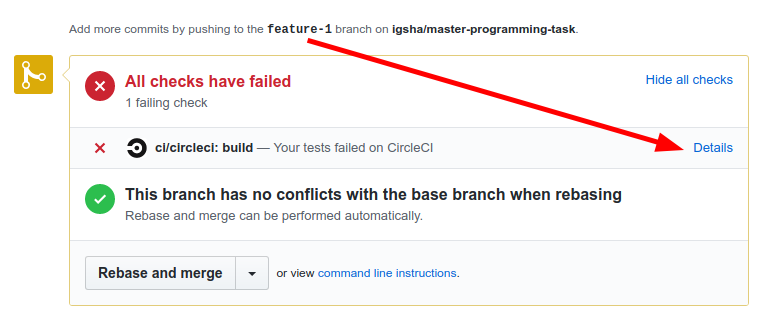
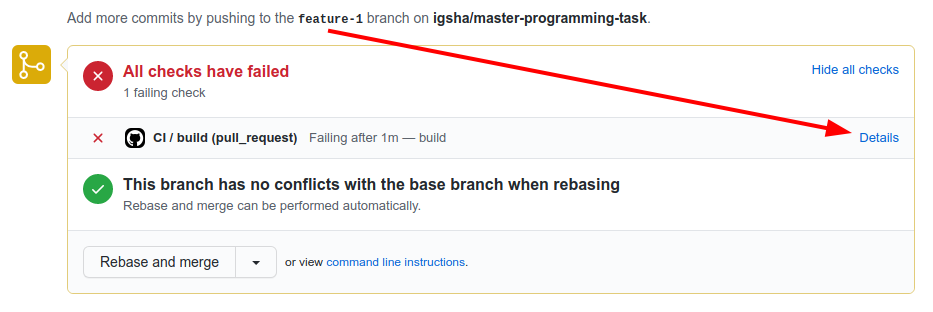
Describe github-actions for tasks

Changed region(s): [[0.0, 0.0288, 0.9987, 0.9519], [0.0605, 0.5481, 0.8171, 0.6923], [0.0908, 0.7788, 0.6053, 0.8942]]

diff --git a/tasks/index.rst b/tasks/index.rst
@@ -21,8 +21,8 @@ Master programming
   * 2 задания имеют одну подзадачу
 
 * 1 задание на написание теста
-* всего 8 заданий по 12 баллов каждое
-* 23 вопроса по 0.5 балла
+* всего 8 заданий по 10 баллов каждое
+* 23 вопроса формируют дополнительные баллы
 * 5 дополнительных вопросов (плавающая оценка)
 * 3 дополнительных задания на самостоятельную работу
 
@@ -90,30 +90,14 @@ Master programming
 Настройка непрерывной интеграции
 ================================
 
-Регистрация в CircleCI
-----------------------
+Использование Github-Actions
+----------------------------
 
-* Для проверки собираемости заданий используется сервис непрерывной интеграции CircleCI
-* Регистрация через github-аккаунт на сайте https://circleci.com
-* Позволить видеть все репозитории, так как наш будет приватным
+* Для проверки собираемости заданий используется сервис непрерывной интеграции github-actions
+* Сервис доступен автоматически
+* При создании пулл-реквеста сервис соберёт и протестирует новые изменения
 
-.. image:: circleci-signup.png
-
-Подписка на проект
-------------------
-
-* Чтобы заработали триггеры, нужно подписаться на проект
-
-.. image:: circleci-setup-project.png
-
-Настройка триггеров
--------------------
-
-* github предоставляет триггеры, можно выбрать на какие реагировать
-* По умолчанию CircleCI будет собирать только мастер
-* Нам нужно собирать только PR (pull request)
-
-.. image:: circleci-project-settings.png
+.. image:: github-actions.png
 
 Интеграция в пулл-реквесты
 ==========================
@@ -122,7 +106,7 @@ Master programming
 -----------------------
 
 * Если всё настроено правильно, то при очередном пулл-реквесте будет информация о сборке проекта
-* Автоматическая сборка исходников на базе docker
+* Автоматическая сборка исходников на базе docker + nix-shell
 * Автоматический запуск тестов
 * Невозможность слияния веток в мастер при наличии ошибок
 
@@ -160,6 +144,7 @@ Master programming
    * ``gcc`` или ``clang`` с поддержкой 17-го стандарта C++
    * ``catch2`` версии не ниже 2.8
    * ``boost`` версии не ниже 1.68
+   * ``gdb`` для отладки кода
 
 #. Используя nix-shell
    * устанавливаем `nix-shell <https://nixos.org/nix/>`_ по команде ``curl https://nixos.org/nix/install | sh``
@@ -174,6 +159,8 @@ Master programming
 * Пакеты ``boost`` и ``catch2`` будем устанавливать с помощью ``vcpkg``
 * По желанию можно поставить `плагин <https://marketplace.visualstudio.com/items?itemName=JohnnyHendriks.ext01>`_
   для отображения тестов ``catch2``
+
+Если есть желание, можно поиграться в nix-shell, при наличии в системе WSL.
 
 Платформа Windows (установка и настройка VS)
 --------------------------------------------
